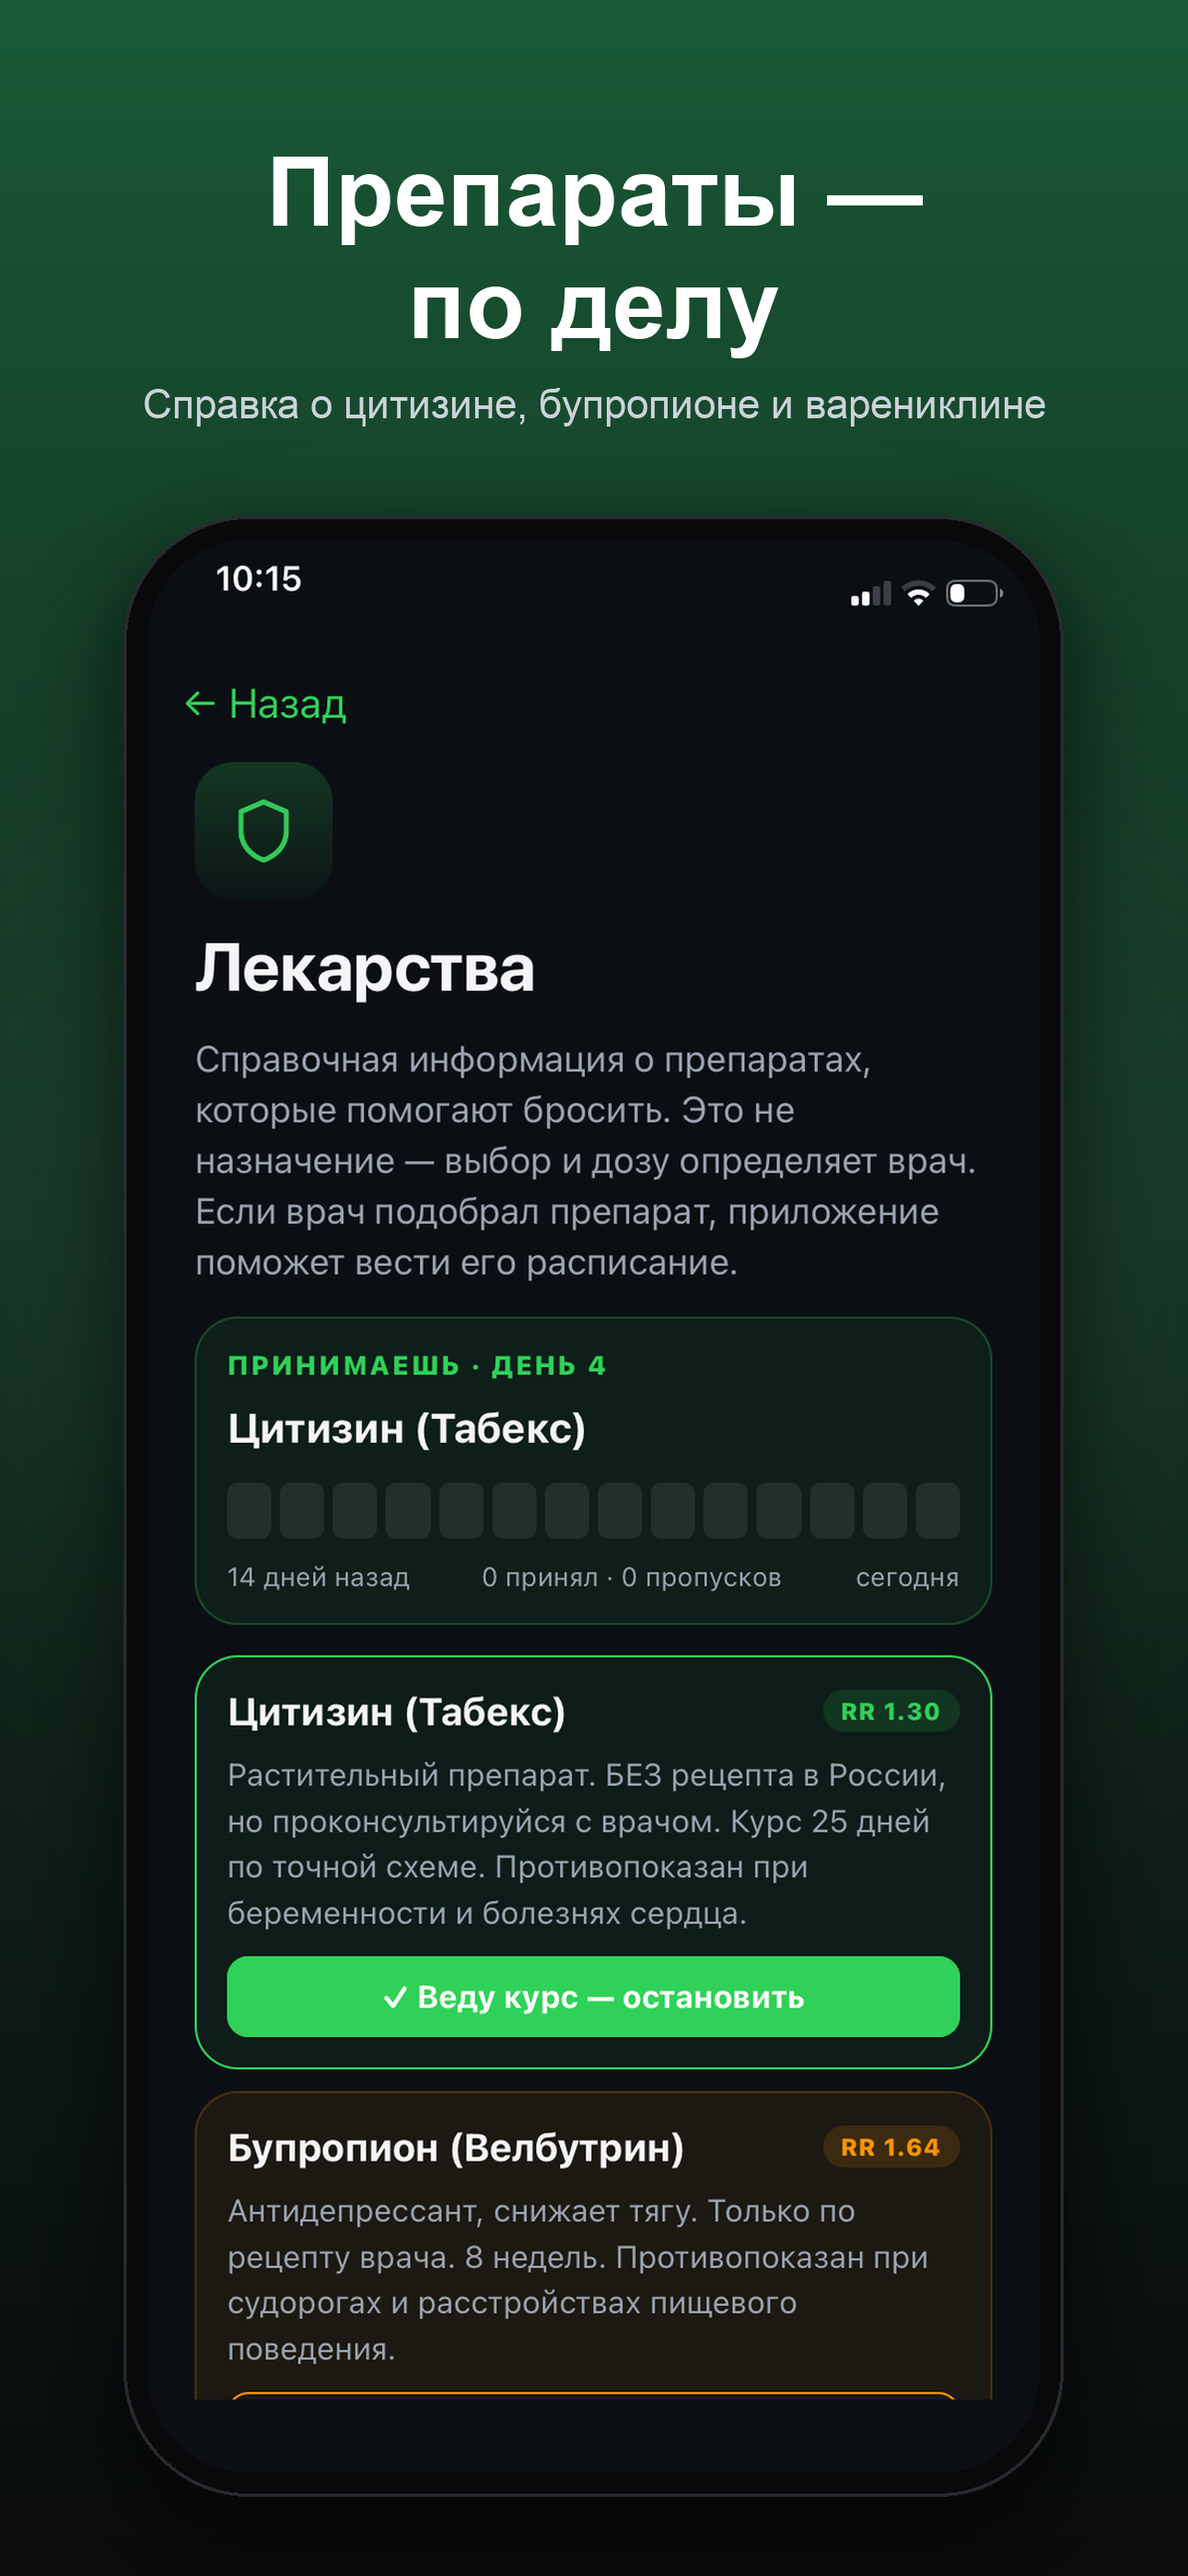
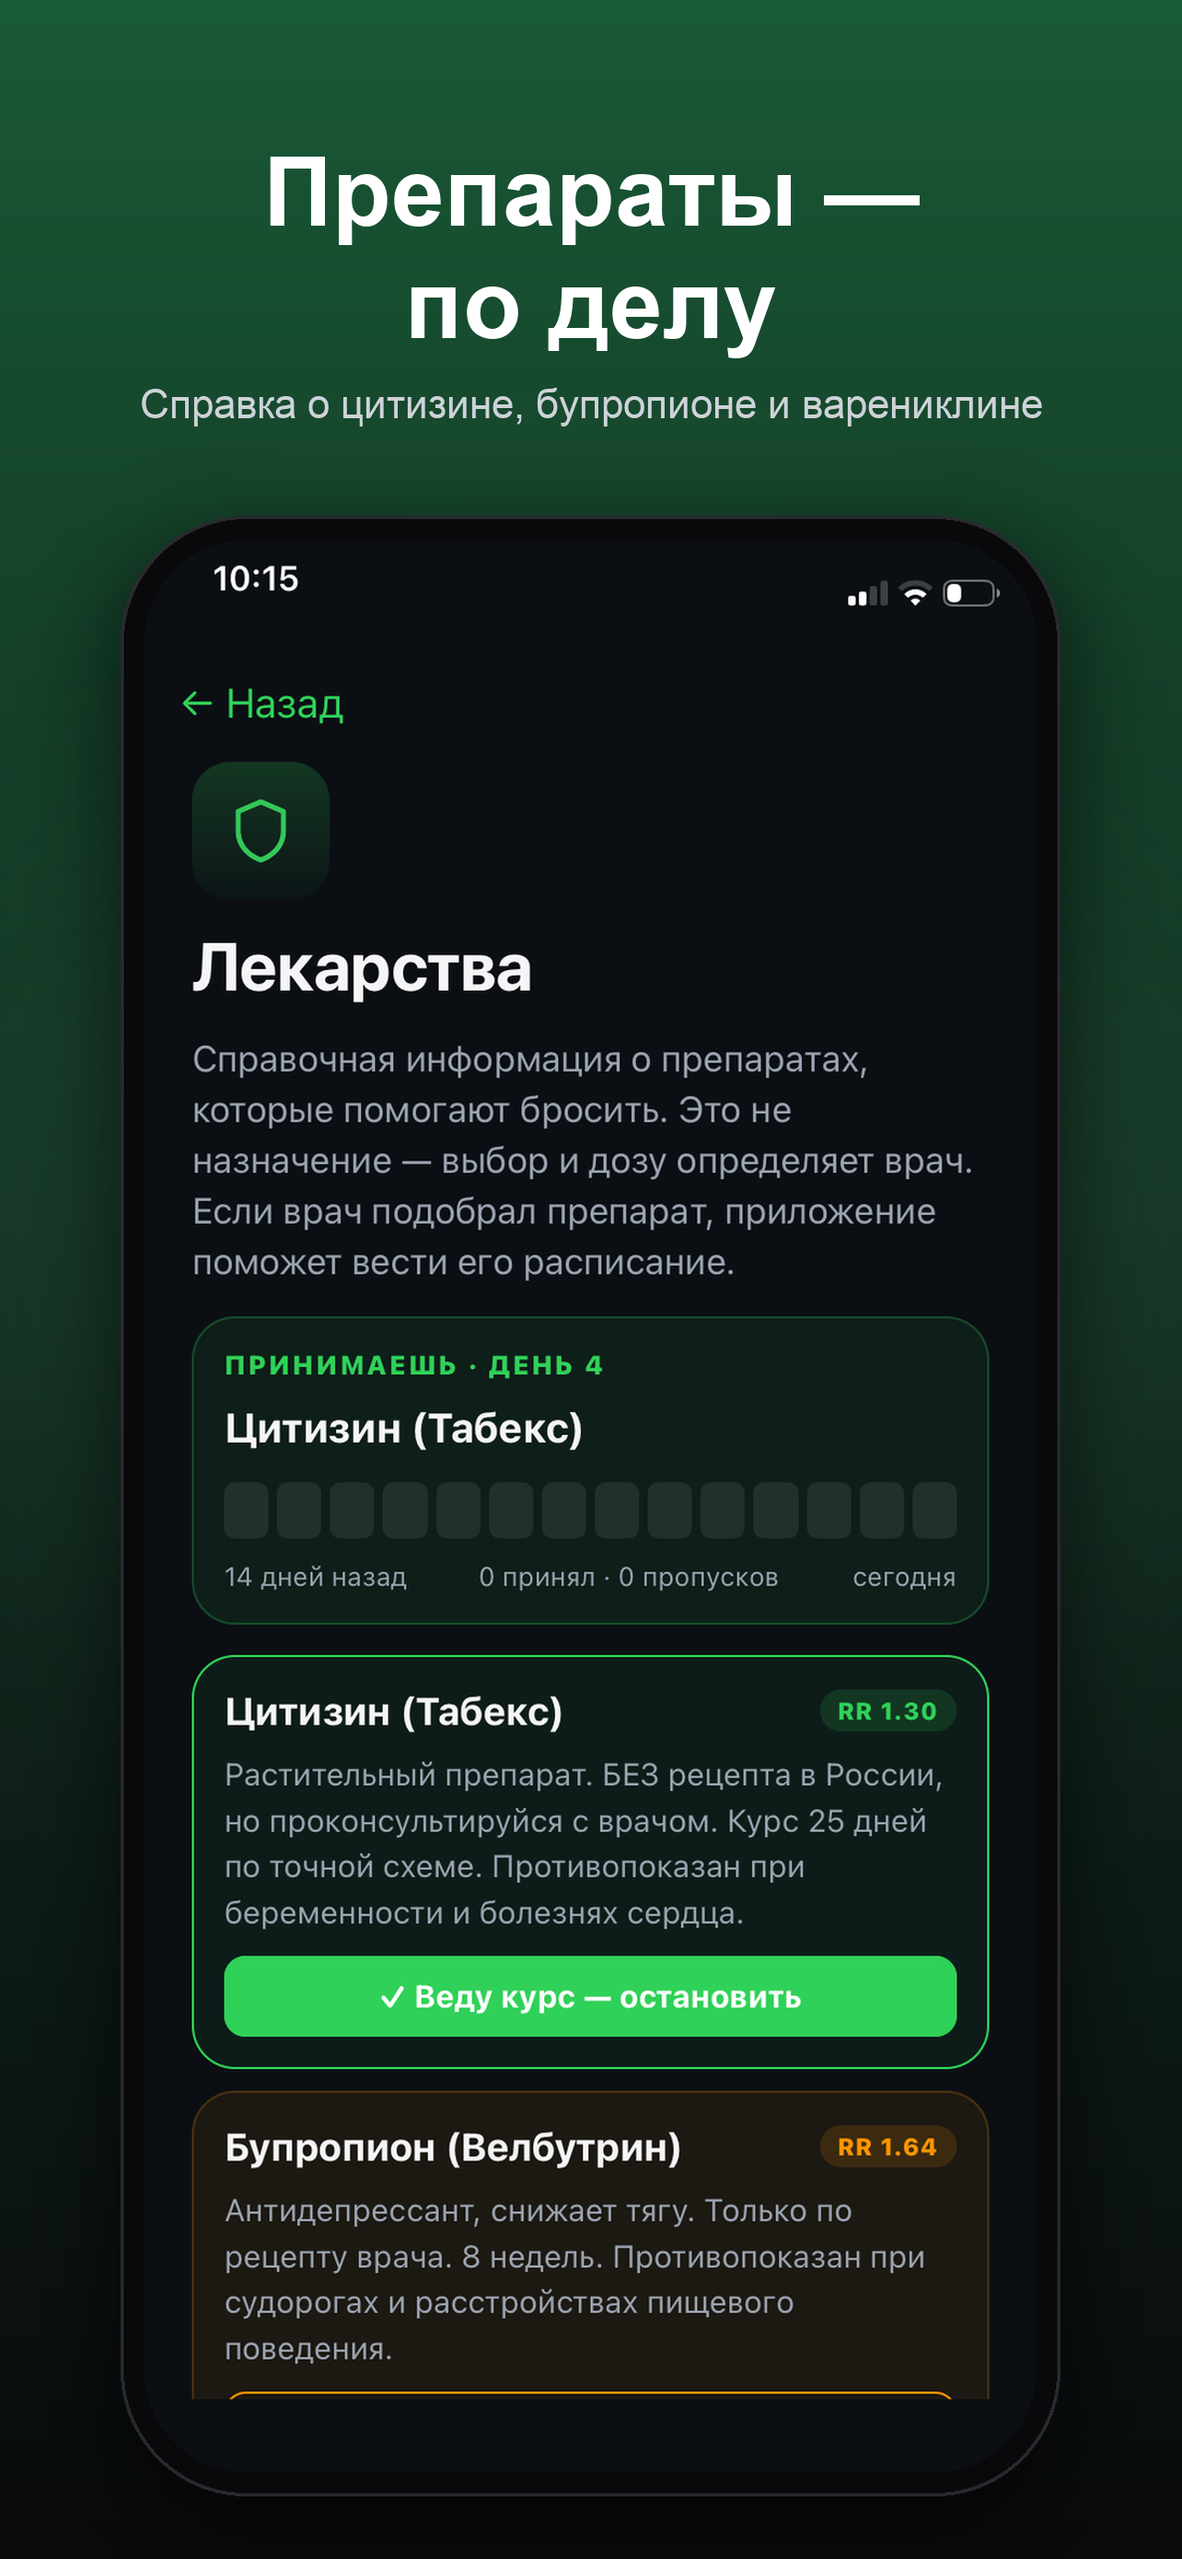
Скрины: размер 1284x2778 для слота App Store 6.5"

diff --git a/scripts/make_store_screens.py b/scripts/make_store_screens.py
@@ -10,7 +10,7 @@ RAW = "/Users/romansuzdalcev/Downloads/скрины эпл"
 OUT = os.path.join(os.path.dirname(__file__), "..", "store-screens")
 os.makedirs(OUT, exist_ok=True)
 
-W, H = 1290, 2796
+W, H = 1284, 2778
 
 def font(bold, size):
     paths = ([
